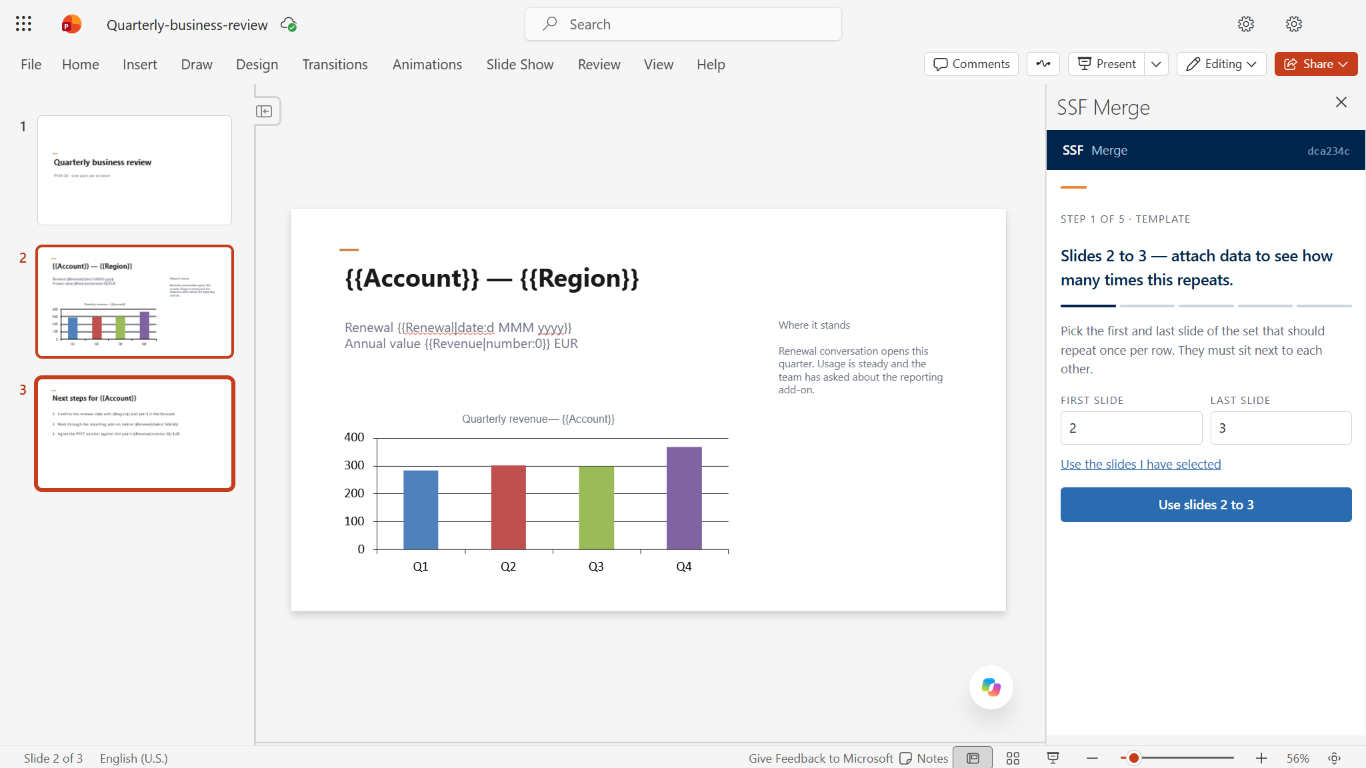
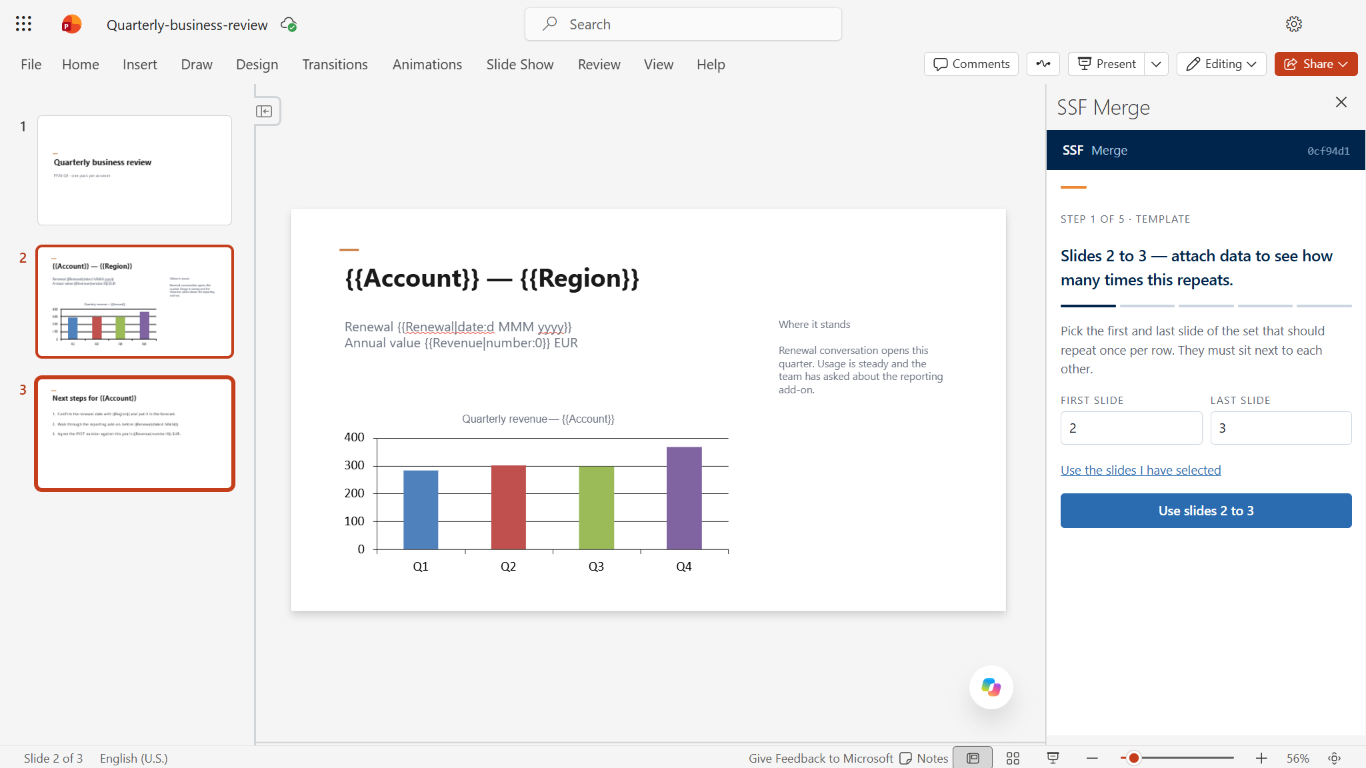
Retake the listing shots on the current build (#206)
The screenshots were shot against `dca234c`. Fourteen PRs of pane work
landed after that, so they are retaken against `0cf94d1`. The build id
sits in the pane header of every shot, which is how a stale one gets
noticed at all.

Checked before retaking: PR #191 changed the demo deck, and only
`docProps/core.xml` differs — `dc:creator` is now empty, slide content
untouched. So the old shots were still visually accurate; they were
stale about the build, not wrong about the product.

Five defects in the capture kit had to be fixed to get a clean run, all
of them things that reported success or said nothing:

- **Nothing opened the debugging port.** Every script defaults to
`127.0.0.1:9333` and none opened it, so the browser had to be started by
hand with flags nobody had written down. `browser.mjs` does it now.
`web-login.mjs` could not: Playwright owns the browser it launches, so
it dies when that script returns — including the moment it detects a
successful sign-in.
- **`currentSlide` trusted one source.** The status bar lags the
document and its two numbers lag together, so it read "Slide 2 of 3"
about a deck a preview had just made five slides long: consistent with
itself, and wrong. It reads the rail now, keeping the status bar as a
second opinion it warns about. Downloading the live document settled
which readout was lying.
- **A screenshot of an occluded window never arrives.** Chrome stops
producing frames for a window behind another, and `page.screenshot`
[…]

diff --git a/test/docs.test.ts b/test/docs.test.ts
@@ -306,7 +306,14 @@ describe("the round's browser driver", () => {
   });
 
   it("names every script in its README", () => {
-    const missing = scripts.filter((f) => !driverReadme.includes(f));
+    // Matched as a backticked name, not as a bare substring. `includes(
+    // "browser.mjs")` is satisfied by the line about `close-browser.mjs`, so a
+    // newly added `browser.mjs` passed this check while being entirely
+    // undocumented: the guard went quiet exactly when a new script arrived
+    // whose name ends like an older one. The reverse check below already
+    // anchored on the backticks; this one did not.
+    const named = new Set([...driverReadme.matchAll(/`([a-z0-9-]+\.mjs)`/g)].map((m) => m[1]));
+    const missing = scripts.filter((f) => !named.has(f));
     expect(missing, `undocumented driver scripts: ${missing.join(", ")}`).toEqual([]);
   });
 

diff --git a/CHANGELOG.md b/CHANGELOG.md
@@ -7,6 +7,46 @@ and this project uses [semantic versioning](https://semver.org/spec/v2.0.0.html)
 
 ## [Unreleased]
 
+### Changed — the listing screenshots, retaken on the current build
+
+They were shot against `dca234c`. Fourteen pull requests of pane work landed
+after that, so they were retaken against `0cf94d1`; the build id is visible in
+the pane header of every shot, which is how a stale one gets noticed.
+
+Five defects in the capture kit had to be fixed to do it, all of them things
+that reported success or said nothing:
+
+- **Nothing opened the debugging port.** Every script here defaults to
+  `127.0.0.1:9333` and none of them opened it, so the browser had to be started
+  by hand with flags nobody had written down. `browser.mjs` does it now.
+  `web-login.mjs` could not: Playwright owns the browser it launches, so it dies
+  the moment that script returns, including the moment it detects a sign-in.
+- **`currentSlide` trusted one source.** The status bar lags the document and
+  its two numbers lag together, so it read "Slide 2 of 3" after a preview had
+  made the deck five slides — internally consistent and wrong. It reads the rail
+  now and keeps the status bar as a second opinion it warns about. A download of
+  the live document settled which one was lying.
+- **A screenshot of an occluded window never arrives.** Chrome stops producing
+  frames for a window that is behind another, and `page.screenshot` waits for
+  one, reporting "fonts loaded" and then timing out. It fronts the tab first.
+- **`says()` threw on a booting frame**, out of the middle of whatever called
+  it, because a frame mid-reload has no `document.body` — and `reset.mjs`
+  reloads deliberately.
+- **`reset.mjs` knew one take-back, not two.** A run stopped at step 3 leaves
+  "Remove the preview" rather than "Remove these slides", and the reset reported
+  nothing to undo about a five-slide deck. It also clears the crumb under
+  `ssf-merge.run.v1`, which otherwise greets the next capture with "A merge from
+  2026-08-30 added 6 slide(s)" above step 1.
+
+### Fixed — the driver README guard passed over an undocumented script
+
+`test/docs.test.ts` asked whether the README `includes` each script's filename.
+`close-browser.mjs` contains `browser.mjs`, so adding `browser.mjs` satisfied
+the check while being entirely undocumented: the guard went quiet exactly when a
+new script arrived whose name ends like an older one. It matches backticked
+names now, which is what the opposite-direction check in the same file already
+did.
+
 ### Fixed — seven things a merge could get wrong without saying so
 
 A bug hunt on 2026-08-31. Every one of these reported success.

diff --git a/test-kit/driver/README.md b/test-kit/driver/README.md
@@ -31,6 +31,7 @@ one machine on one day does not belong in the repo.
 | `fetch-deck.mjs` | Downloads the open deck's bytes through the page's own session, and prints its slide count. `--expect-slides N` waits for OneDrive to commit rather than handing back last save. |
 | `verify-package.mjs` | Checks a merged deck, anchored per row to the slide's own title. Knows BOTH kit decks — thirteen checks for the main template, seven for the sunburst — understands a deck that still holds its template, and refuses a deck that is neither. |
 | `mutate.mjs` | Breaks a reference deck six ways and asserts each is caught by its own guard — and refuses to count a guard whose check was already red. |
+| `browser.mjs` | Starts Edge on the persistent profile with CDP open on 9333 and leaves it running. `web-login.mjs` cannot: Playwright owns the browser it launches, so it dies when that script returns. Run this one first. |
 | `pane.mjs` | The vocabulary the rest of them are written in: `says`, `click`, `fill`, `until`, `controls`, `selectSlides`, `currentSlide`. Talks to each out-of-process iframe on its own websocket, goes through React's native value setter, and proves every action took before returning. |
 | `shot.mjs` | Photographs the deck tab at an exact pixel size, hiding the account button and any developer add-in tab first, and throwing if it finds neither. |
 | `reset.mjs` | Undoes a merge and reloads the pane, so a second capture run starts where a stranger would. Proves the reload with a marker rather than announcing it. |
